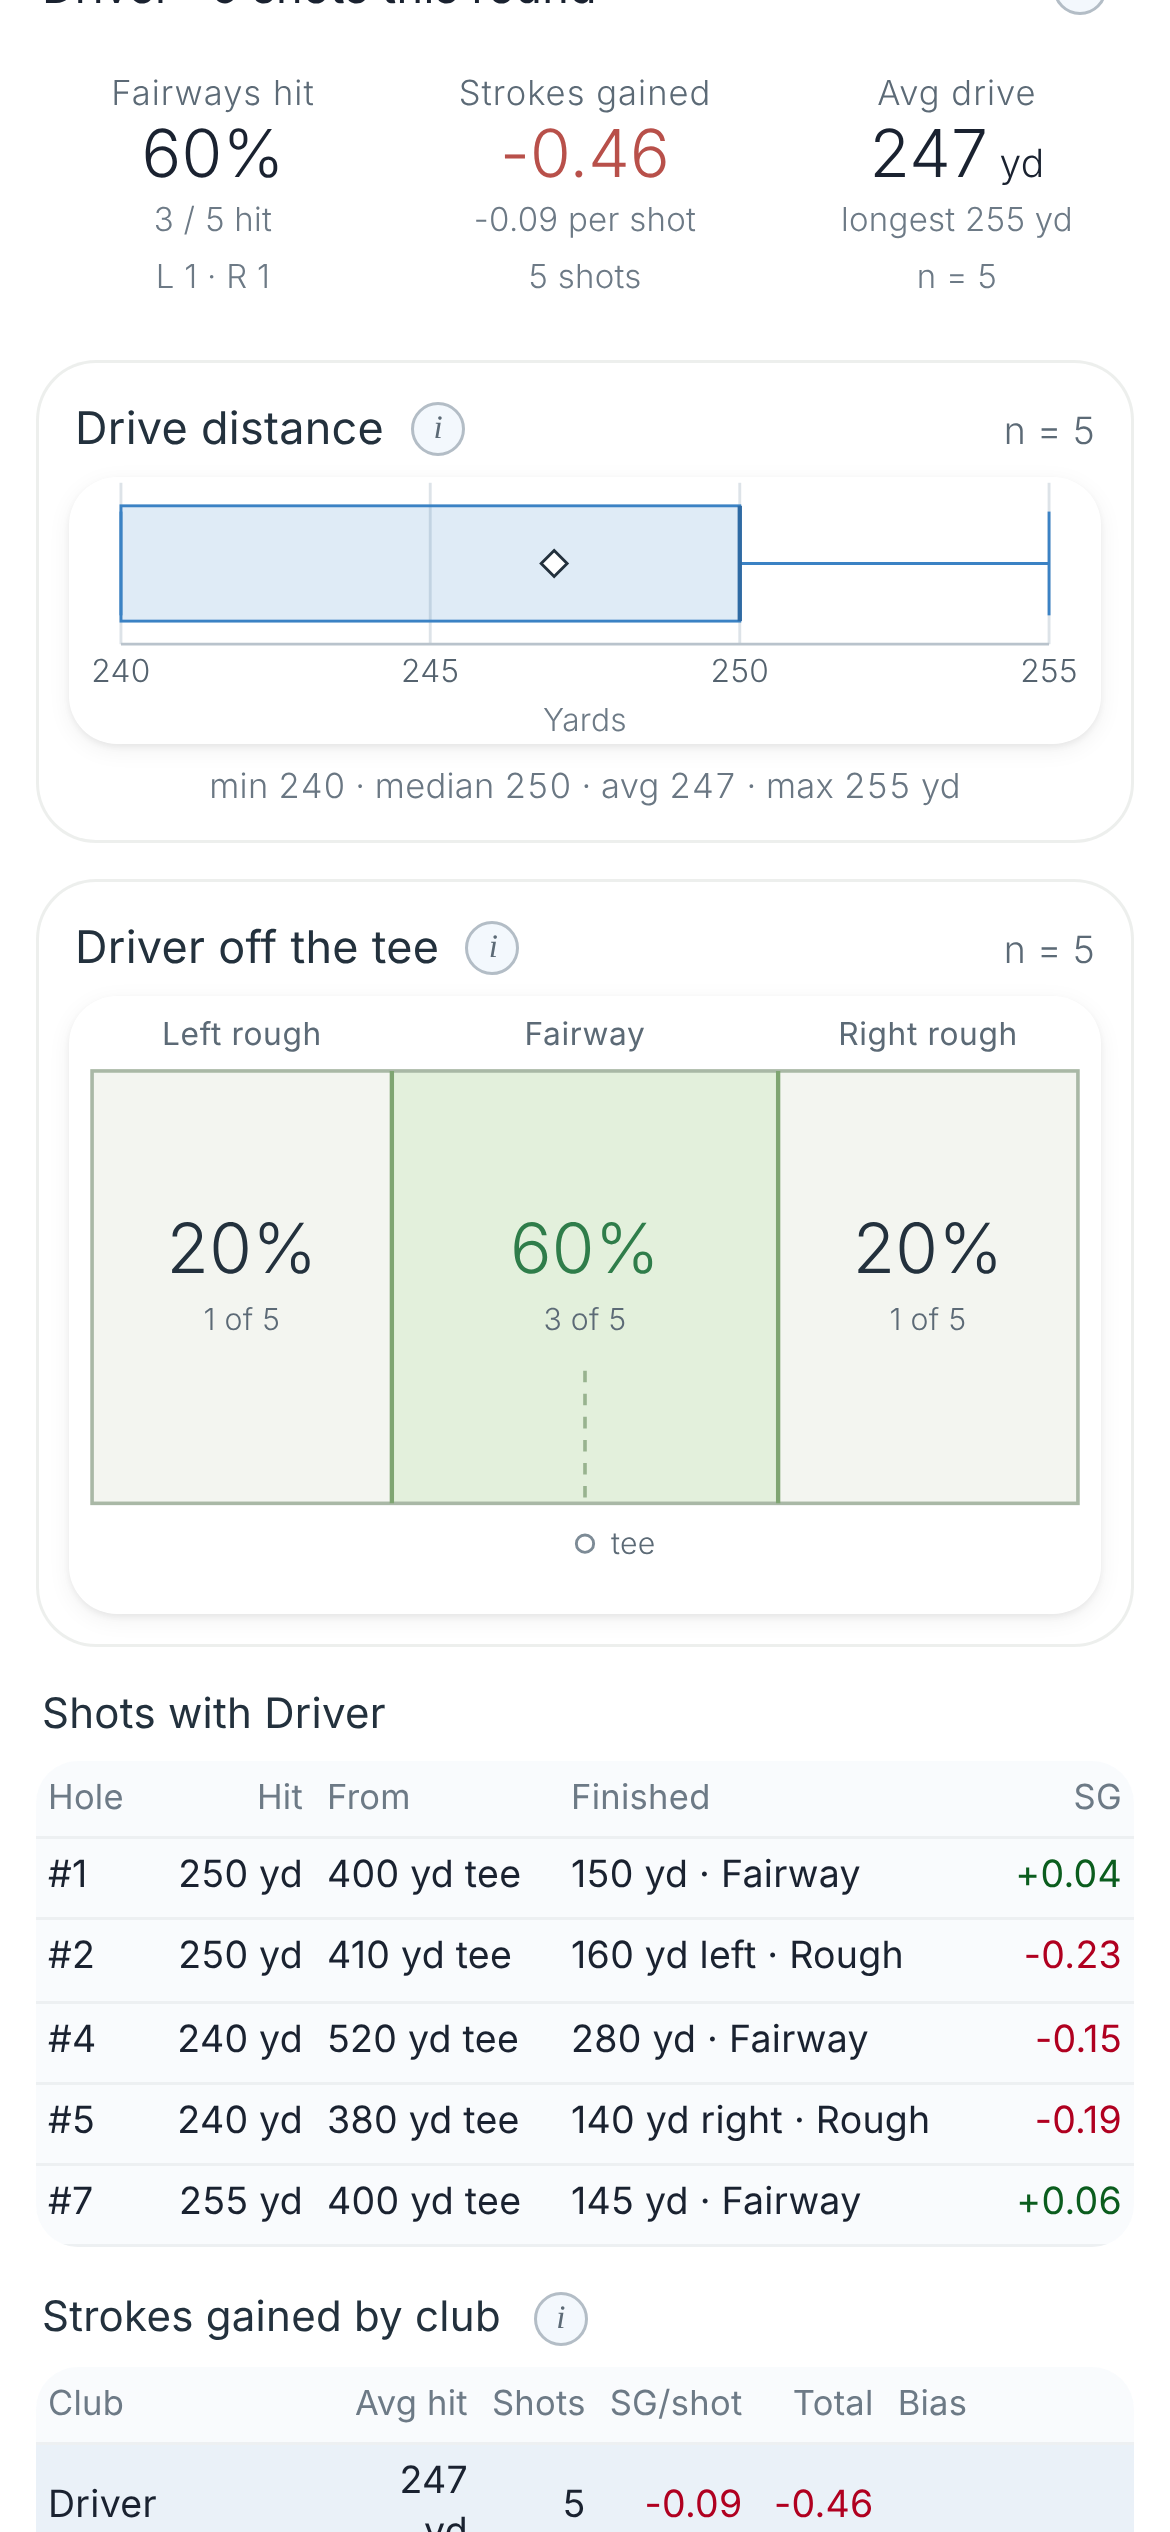
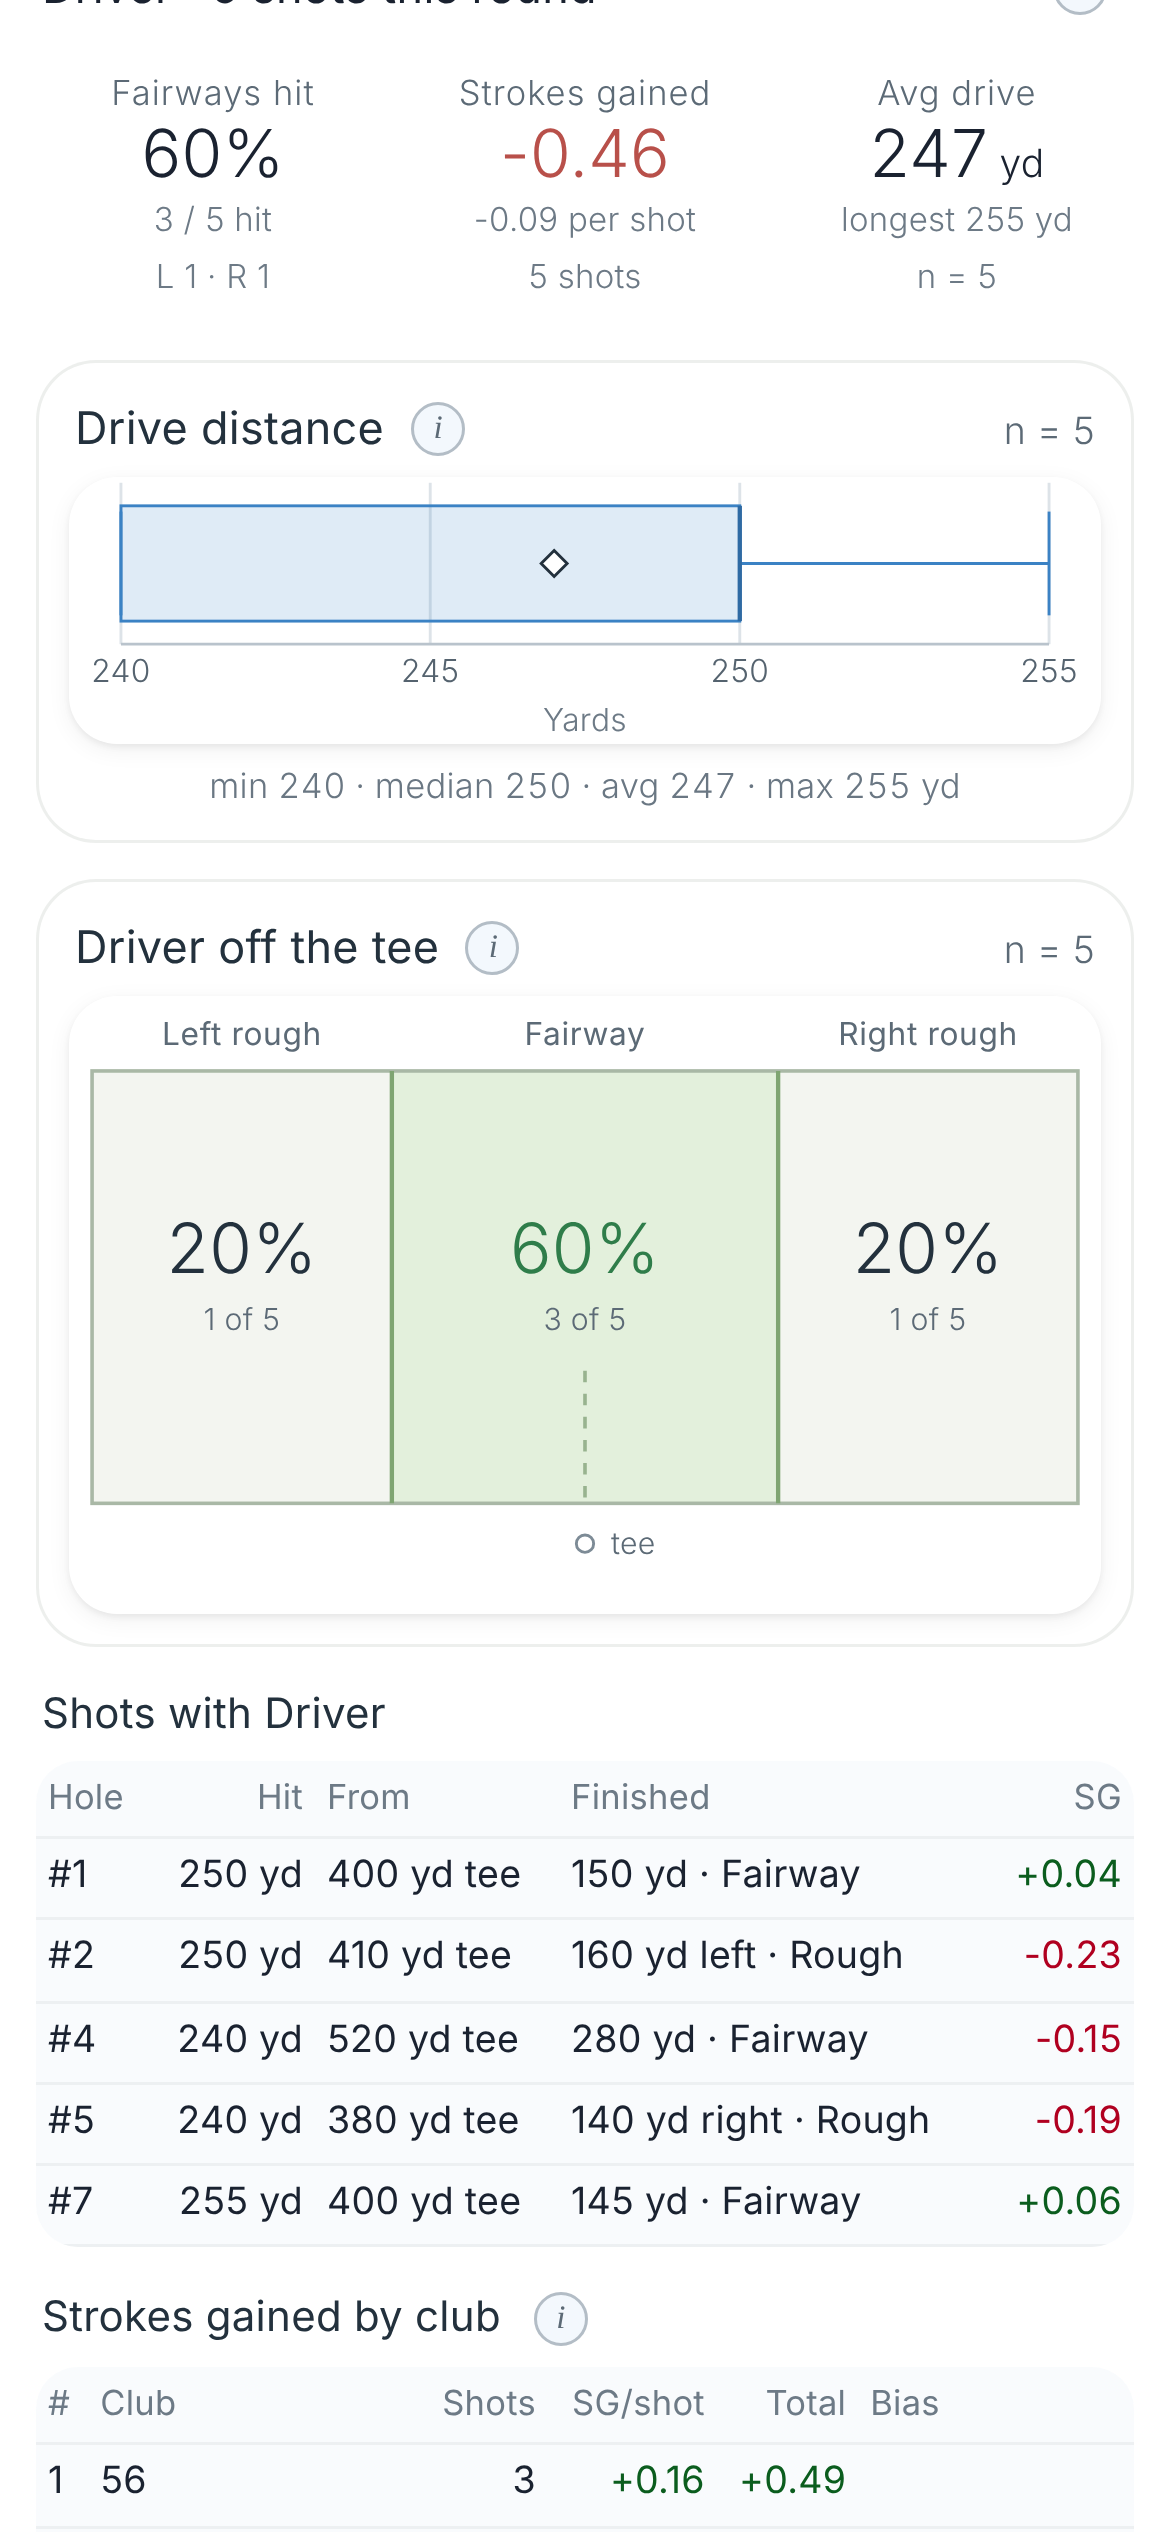
Club Bias / finish picture: only shots that could reach the pin
Within the club's bag carry + 15 yd (from 30 yd in and from the green always;
a club with no carry: only the hole's regulation approach). A 196-yd 4H from
250 on a par 5 is no longer an '50 yd short' miss.

Claude-Session: https://claude.ai/code/session_01176AQzRDppxXpivcaGFcWf

Changed region(s): [[0.3077, 0.936, 0.8308, 1.0], [0.0308, 0.936, 0.1538, 0.9984]]

diff --git a/app.js b/app.js
@@ -5459,28 +5459,32 @@
   var DIR_LG = { long: 1, longleft: 1, longright: 1, short: -1, shortleft: -1, shortright: -1, left: 0, right: 0 };
   var DIR_LR = { left: -1, longleft: -1, shortleft: -1, right: 1, longright: 1, shortright: 1, long: 0, short: 0 };
   function clubShots(all) {
-    var out = [];
+    // v266 (Scott: "a 196 club from 250 should not be included"): short / long (Bias, the finish picture) only counts shots that could reach the
+    // pin – within the club's bag carry + REACH_ROLL yd, from 30 yd and in, or from the green; a club with no carry: only the hole's regulation approach
+    var out = [], CAR = {}; (bag().clubs || []).forEach(function (c) { if (c && c.code && Number(c.carry) > 0) CAR[String(c.code).toLowerCase()] = Number(c.carry); });
     (all ? savedRounds() : [round()]).forEach(function (r) { r.holes.forEach(function (h, hi) {
       if (!h.rows || h.nostats) return; var a = SG.analyzeHole(h, blOf(r)); if (!a.complete) return; // v256: the round's own benchmark (was PGA Tour), so clubs add up to Round stats
       a.shots.forEach(function (s) { if (!s.club) return;
         var holed = s.end.lie === 'holed', ob = s.ob, yd = holed ? 0 : s.end.lie === 'green' ? s.end.dist / 3 : s.end.dist, d = s.dir || '';
-        var c = Math.SQRT1_2, diag = DIR_LG[d] && DIR_LR[d];
+        var c = Math.SQRT1_2, diag = DIR_LG[d] && DIR_LR[d], car = CAR[String(s.club).toLowerCase()];
+        var reach = s.start.lie === 'green' || s.start.dist <= 30 || (car ? s.start.dist <= car + REACH_ROLL : !!(a.appr && a.appr.shot === s.n));
         out.push({ r: r, hole: hi + 1, s: s, club: s.club, holed: holed, ob: ob, yd: yd, dir: d, green: holed || s.end.lie === 'green',
-          tee: s.cat === 'tee', lg: ob || !d || s.cat === 'tee' ? null : DIR_LG[d] * yd * (diag ? c : 1), lr: ob || !d || s.cat === 'tee' ? null : DIR_LR[d] * yd * (diag ? c : 1), sg: s.sg, layup: !!s.layup, cat: s.cat, par: Number(h.par),
+          tee: s.cat === 'tee', reach: reach, lg: ob || !d || s.cat === 'tee' || !reach ? null : DIR_LG[d] * yd * (diag ? c : 1), lr: ob || !d || s.cat === 'tee' || !reach ? null : DIR_LR[d] * yd * (diag ? c : 1), sg: s.sg, layup: !!s.layup, cat: s.cat, par: Number(h.par),
           reg: !!(a.appr && a.appr.shot === s.n), gir: !!(a.appr && a.appr.shot === s.n && a.appr.gir), proxFt: a.appr && a.appr.shot === s.n ? a.appr.proxFt : null }); // v118: the hole's regulation approach (Proximity / GIR rule)
       });
     }); });
     return out;
   }
+  var REACH_ROLL = 15; // v266: yards of run-out on top of the bag carry that still count as able to reach the green
   function clubStats(list) {
     var dl = list.filter(function (x) { return x.lg != null; }), n = list.length, avg = function (k) { return dl.length ? dl.reduce(function (a, x) { return a + x[k]; }, 0) / dl.length : null; };
     var lg = avg('lg'), lr = avg('lr');
     return { n: n, lg: lg, lr: lr, nDir: dl.length, green: list.filter(function (x) { return x.green; }).length, ob: list.filter(function (x) { return x.ob; }).length,
       sg: list.reduce(function (a, x) { return a + (x.layup ? 0 : x.sg); }, 0), sgN: list.filter(function (x) { return !x.layup; }).length,
-      bias: lg != null && Math.abs(lg) > 5 ? (lg > 0 ? 'long' : 'short') : '' };
+      bias: lg != null && Math.abs(lg) > 5 ? (lg > 0 ? 'long' : 'short') : '', far: list.filter(function (x) { return !x.tee && !x.ob && !x.reach; }).length };
   }
   function clubSVG(list) {
-    var C = 180, CY = 200, pts = list.filter(function (x) { return !x.ob && !x.tee && (x.dir || x.holed); }), mx = Math.max(20, Math.max.apply(null, pts.map(function (x) { return x.yd * 3; }).concat([0])));
+    var C = 180, CY = 200, pts = list.filter(function (x) { return !x.ob && !x.tee && x.reach && (x.dir || x.holed); }), mx = Math.max(20, Math.max.apply(null, pts.map(function (x) { return x.yd * 3; }).concat([0])));
     // v120: the scale is in FEET – rings every 10 ft up to 60 ft; bigger spreads use 20 ft rings (to 120 ft), then 50 ft, so it never gets crowded. K = px per foot.
     var step = mx <= 60 ? 10 : mx <= 120 ? 20 : 50, max = Math.ceil(mx / step) * step, K = 160 / max, G = Math.max(6, 30 * K);
     var o = '<svg id="clubmap" viewBox="0 0 360 400" role="img" aria-label="Where shots with this club finished"><rect width="360" height="400" fill="#f6f8f4"/>' +
@@ -5637,7 +5641,7 @@
     if (tees.length < list.length) {
       o += '<div class="clubcard" id="clubdisp"><div class="cch"><span>Finish vs the pin' + tipBtn('clubdisp', 'i', 'About this picture') + '</span><span class="ccv">n = ' + (list.length - tees.length) + '</span></div>' +
         tipText('clubdisp', 'Rings = feet from the hole (every 10 ft; 20 ft rings when shots finish further than 60 ft away); the light green circle is about the size of a green (30 ft); points use the distance left and direction you entered on the next shot. White = finished on the green, red = off the green, yellow = holed.' + (tees.length ? ' Tee shots on par 4/5 are judged by the fairway, not the pin, so they are not drawn here.' : '') +
-          (st.ob ? ' ' + st.ob + ' OB shot(s) not drawn.' : '') + (st.n - st.nDir - st.ob - tees.length > 0 ? ' ' + (st.n - st.nDir - st.ob - tees.length) + ' shot(s) with no direction are not drawn / not in the averages.' : '')) +
+          (st.ob ? ' ' + st.ob + ' OB shot(s) not drawn.' : '') + (st.far ? ' ' + st.far + ' shot(s) from beyond ' + esc(cur) + '’s reach (bag carry + ' + REACH_ROLL + ' yd, or not the hole’s regulation approach when the bag has no carry for it) are not drawn / not in the averages or Bias.' : '') + (st.n - st.nDir - st.ob - tees.length - st.far > 0 ? ' ' + (st.n - st.nDir - st.ob - tees.length - st.far) + ' shot(s) with no direction are not drawn / not in the averages.' : '')) +
         clubSVG(list) + '<div class="stat-grid" id="clubcells">' + stat('Avg short / long', fmtD(st.lg, 'long', 'short')) + stat('Avg left / right', fmtD(st.lr, 'right', 'left')) + '</div></div>';
     }
     if (tees.length) o += '<span id="clubtee" hidden data-n="' + tees.length + '">' + pl(tees.length, 'tee shot') + ' on par 4/5</span>';
@@ -5647,7 +5651,7 @@
       var fin = x.holed ? 'holed' : x.ob ? 'OB' : (x.s.end.lie === 'green' ? Math.round(x.s.end.dist) + ' ft' : Math.round(x.s.end.dist) + ' yd') + (x.dir ? ' ' + SG.DIR_NAME[x.dir].toLowerCase() : '') + (x.s.end.lie !== 'green' ? ' · ' + (LIE_NAME[x.s.end.lie] || x.s.end.lie) : ' · green');
       return '<tr><td>' + (all ? localDate(x.r.date).slice(5) + ' #' : '#') + x.hole + '</td><td class="num hitc">' + hitTxt(x) + '</td><td>' + Math.round(x.s.start.dist) + ' yd ' + (LIE_NAME[x.s.start.lie] || (x.s.start.lie === 'tee' ? 'tee' : x.s.start.lie)) + '</td><td>' + esc(fin) + '</td><td class="num ' + sgCls(x.sg) + '">' + (x.layup ? 'layup' : fmtSG(x.sg)) + '</td></tr>'; }).join('') + '</table>';
     var rank = used.map(function (c) { var s2 = clubStats(by[c]); return { c: c, s: s2 }; }).filter(function (x) { return x.s.sgN; }).sort(function (a, b) { return b.s.sg / b.s.sgN - a.s.sg / a.s.sgN; });
-    o += '<h3 class="clubh3">Strokes gained by club' + tipBtn('clubrank', 'i', 'About this table') + '</h3>' + tipText('clubrank', 'Best club per shot at the top (vs ' + bmk + ', the same numbers as Round stats). Layup tee shots are not in SG. Putts count as the putter unless you picked another club; shots with no club picked are in the last rows, so the table adds up to the round’s total. Bias ⚠ = finishes more than 5 yd short or long on average (from the distance + direction of the next shot; straight left/right counts as pin high). Tap a row to see that club.') + '<table id="clubrank" class="clubtab"><tr><th>#</th><th>Club</th><th class="num">Shots</th><th class="num">SG/shot</th><th class="num">Total</th><th>Bias</th></tr>' + rank.map(function (x, i) {
+    o += '<h3 class="clubh3">Strokes gained by club' + tipBtn('clubrank', 'i', 'About this table') + '</h3>' + tipText('clubrank', 'Best club per shot at the top (vs ' + bmk + ', the same numbers as Round stats). Layup tee shots are not in SG. Putts count as the putter unless you picked another club; shots with no club picked are in the last rows, so the table adds up to the round’s total. Bias ⚠ = finishes more than 5 yd short or long on average (from the distance + direction of the next shot; straight left/right counts as pin high) – only shots that could reach the pin: within the club’s bag carry + ' + REACH_ROLL + ' yd (or the hole’s regulation approach if the bag has no carry), from 30 yd in or from the green. Tap a row to see that club.') + '<table id="clubrank" class="clubtab"><tr><th>#</th><th>Club</th><th class="num">Shots</th><th class="num">SG/shot</th><th class="num">Total</th><th>Bias</th></tr>' + rank.map(function (x, i) {
       return '<tr data-act="clubsel" data-v="' + esc(x.c) + '" class="' + (x.c === cur ? 'cur' : '') + '"><td>' + (i + 1) + '</td><td><b>' + esc(x.c) + '</b></td><td class="num">' + x.s.sgN + '</td><td class="num ' + sgCls(x.s.sg) + '">' + fmtSG(x.s.sg / x.s.sgN) + '</td><td class="num ' + sgCls(x.s.sg) + '">' + fmtSG(x.s.sg) + '</td><td>' + (x.s.bias ? '⚠ ' + Math.round(Math.abs(x.s.lg)) + ' yd ' + x.s.bias : '') + '</td></tr>'; }).join('') + clubFootHTML(all, rank) + '</table>';
     return o;
   }

diff --git a/tests/club-reach-focused.js b/tests/club-reach-focused.js
@@ -1,0 +1,32 @@
+// v266 (Scott: "my 4 hybrid is a 196 club, so a par 5 second shot from 250 should not be included"): Bias and the finish picture only count
+// shots that could reach the pin – within the club's bag carry + 15 yd (from 30 yd in / the green always; no carry = the regulation approach).
+// Run: node tests/club-reach-focused.js
+const { chromium } = require('playwright-core'); const assert = require('assert'); const { spawn } = require('child_process');
+const PORT = 8891;
+(async () => {
+  const srv = spawn('python3', ['-m', 'http.server', String(PORT), '--bind', '127.0.0.1'], { cwd: __dirname + '/..', stdio: 'ignore' }); await new Promise(r => setTimeout(r, 1200));
+  const b = await chromium.launch({ executablePath: '/usr/bin/google-chrome', args: ['--no-sandbox'] }); const errors = [];
+  try {
+    const page = await (await b.newContext({ viewport: { width: 390, height: 844 }, deviceScaleFactor: 2, isMobile: true, hasTouch: true, serviceWorkers: 'block' })).newPage();
+    page.setDefaultTimeout(20000); page.on('pageerror', e => errors.push(String(e)));
+    await page.goto('http://127.0.0.1:' + PORT + '/?x=' + Date.now());
+    await page.evaluate(() => {
+      const R = (d, l, dir, club) => Object.assign({ dist: d, loc: l, dir: dir || '', pen: false }, club ? { club } : {});
+      // odd holes: par 5, 4H from 250 (out of reach) finishes 55 yd short in the fairway; even holes: par 4, 4H from 200 (reachable) finishes 8 yd short
+      const holes = Array.from({ length: 18 }, (_, i) => i % 2
+        ? { par: 5, finished: true, rows: [R(520, 'tee', '', 'Driver'), R(250, 'fairway', '', '4H'), R(55, 'fairway', 'short', '56'), R(6, 'green', 'long'), R(1, 'holed')] }
+        : { par: 4, finished: true, rows: [R(420, 'tee', '', 'Driver'), R(200, 'fairway', '', '4H'), R(8, 'rough', 'short', '56'), R(5, 'green', 'long'), R(1, 'holed')] });
+      localStorage.clear(); localStorage.setItem('golfsg.player.v1', 'Scott');
+      localStorage.setItem('golfsg.bag.v1', JSON.stringify({ clubs: [{ code: 'Driver', cat: 'd', carry: 250 }, { code: '4H', cat: 'hy', carry: 196 }, { code: '56', cat: 'we', carry: 90 }] }));
+      localStorage.setItem('golfsg.rounds.v1', JSON.stringify([{ v: 3, dv: 2, id: 'rc', date: '2026-10-10T17:00:00.000Z', course: 'Reach', baseline: 'pga', player: 'Scott', holes }]));
+    });
+    await page.reload(); if (await page.$('#tbplus')) await page.click('#navbtn'); await page.click('[data-act="history"]'); await page.click('#histlist [data-act="open"][data-id="rc"]');
+    if (!(await page.$('[data-stx="club"].open')) && await page.$('[data-act="stx"][data-v="club"]')) await page.click('[data-act="stx"][data-v="club"]');
+    await page.click('[data-act="map"][data-v="club"]'); await page.waitForSelector('#clubbtns');
+    await page.click('#clubbtns [data-v="4H"]');
+    assert.match(await page.textContent('#clubbias'), /4H finishes 8 yd short on average/, 'only the 200-yd shots count');
+    assert.match(await page.textContent('#clubrank tr[data-v="4H"]'), /⚠ 8 yd short/);
+    assert.match(await page.textContent('#tip-clubdisp'), /9 shot\(s\) from beyond 4H’s reach/);
+    assert.deepStrictEqual(errors, []); console.log('CLUB REACH OK');
+  } finally { await b.close(); srv.kill(); }
+})().catch((e) => { console.error(e); process.exit(1); });

diff --git a/sw.js b/sw.js
@@ -1,5 +1,5 @@
 // Offline support: cache the whole app on install, serve cache-first.
-// v266: Club performance – Hit column (yd; ft for putts) in each club's shot list; putts count as the Putter (unless another club was picked), with Putter tiles.
+// v266: Club performance – Hit column (yd; ft for putts) in each club's shot list; putts count as the Putter (unless another club was picked), with Putter tiles; Bias / the finish picture only count shots that could reach the pin (bag carry + 15 yd).
 // v265: Hole replay ▶ Play – the static map's distance tags fade in as each shot's trace passes halfway (shots, the shot onto the green, putts).
 // v264: Dispersion aim guide – ◎ back on the aim point (the flag + the move) with the guide from the flag; the ring sits off it by your usual miss.
 // v263: Dispersion rounds – Choose: pick a whole tournament (e.g. a 54-hole event) in one tap, or any rounds; a right-angle guide from the flag to the aim point with each arm measured.
